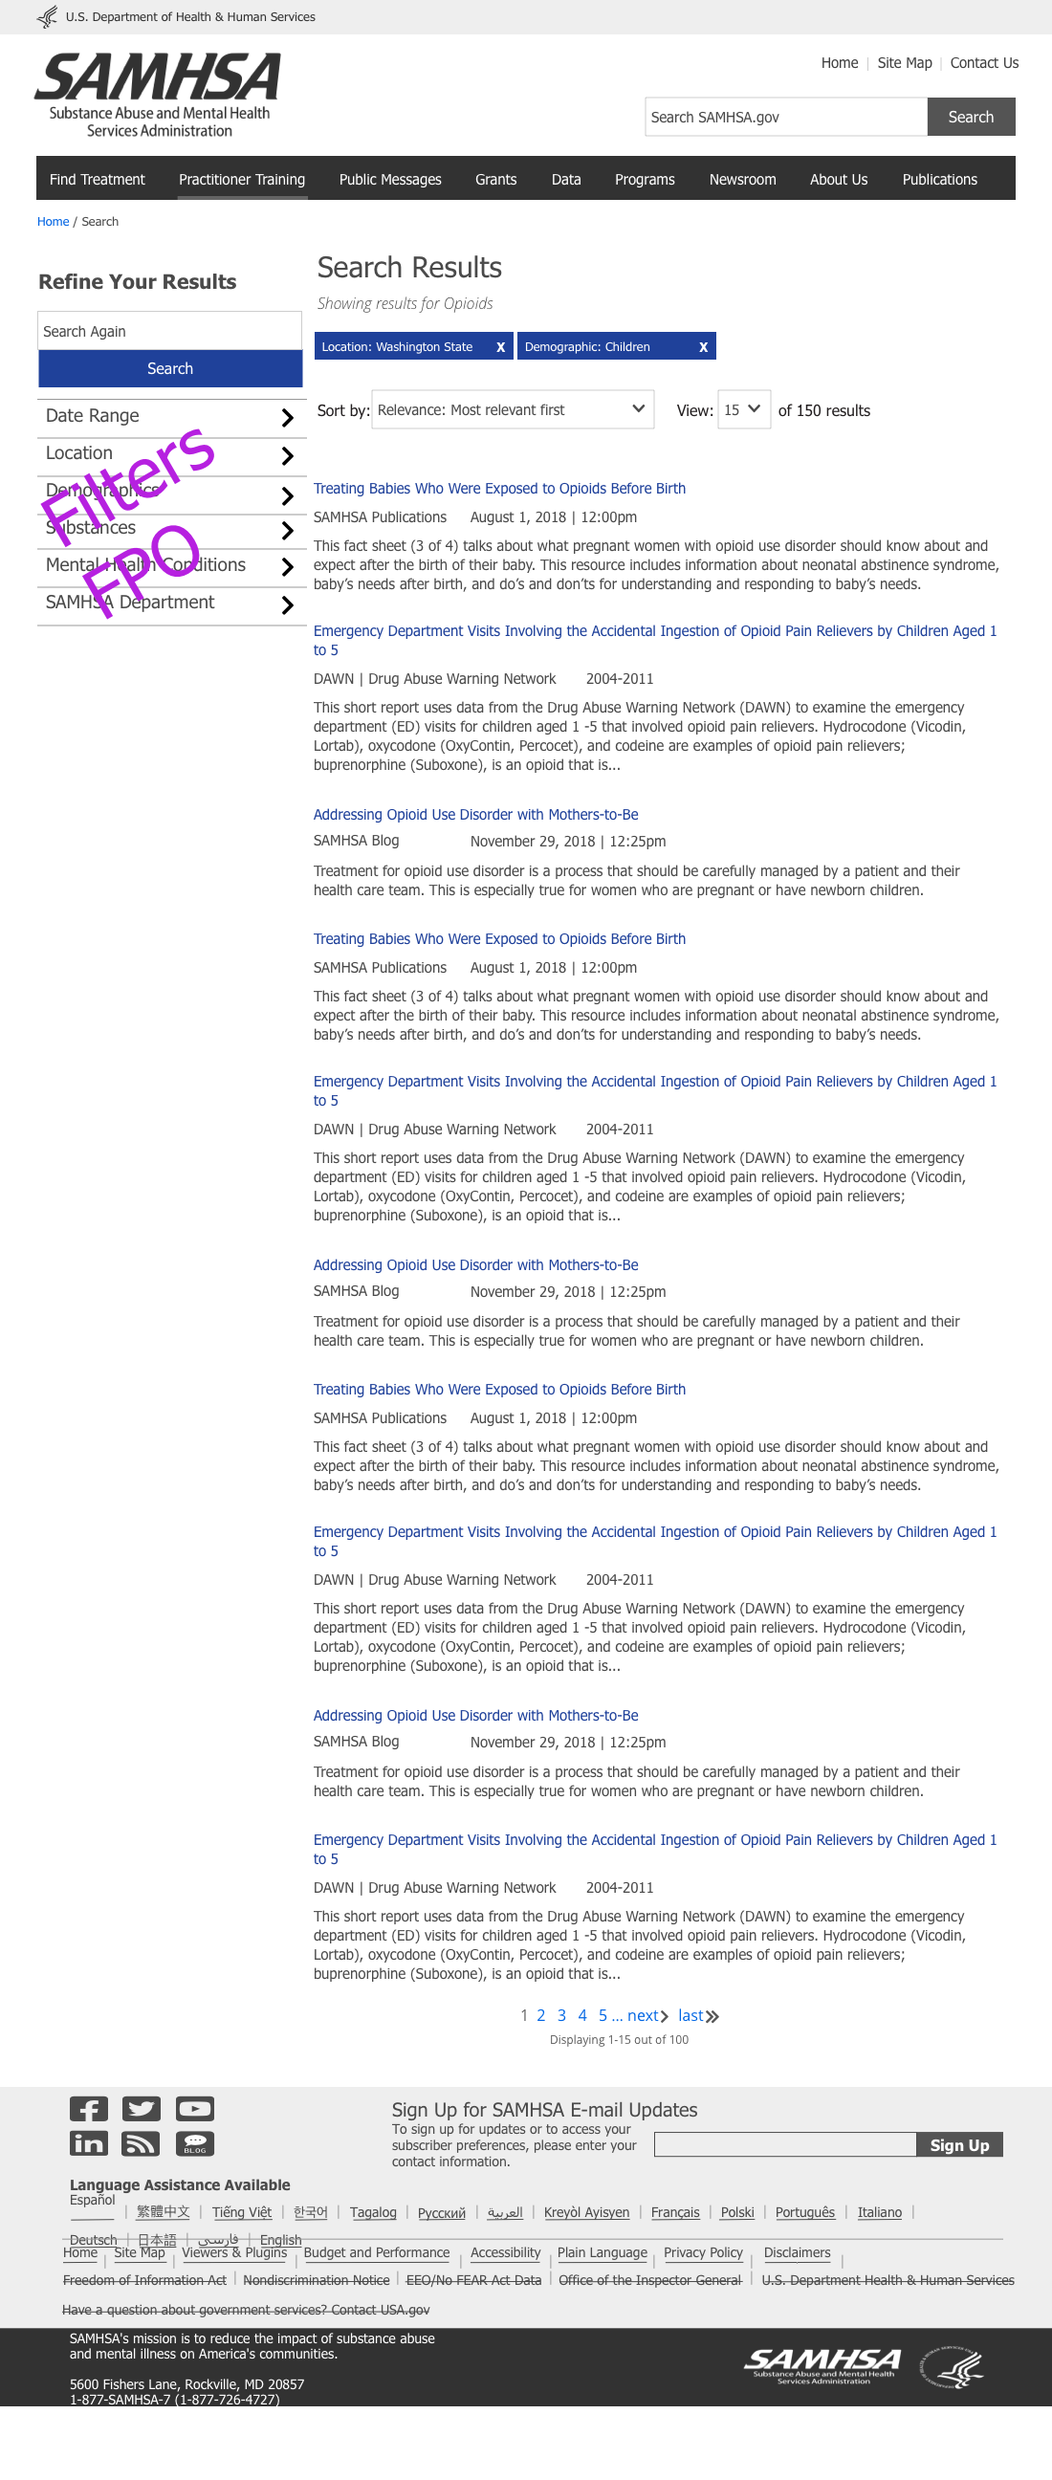
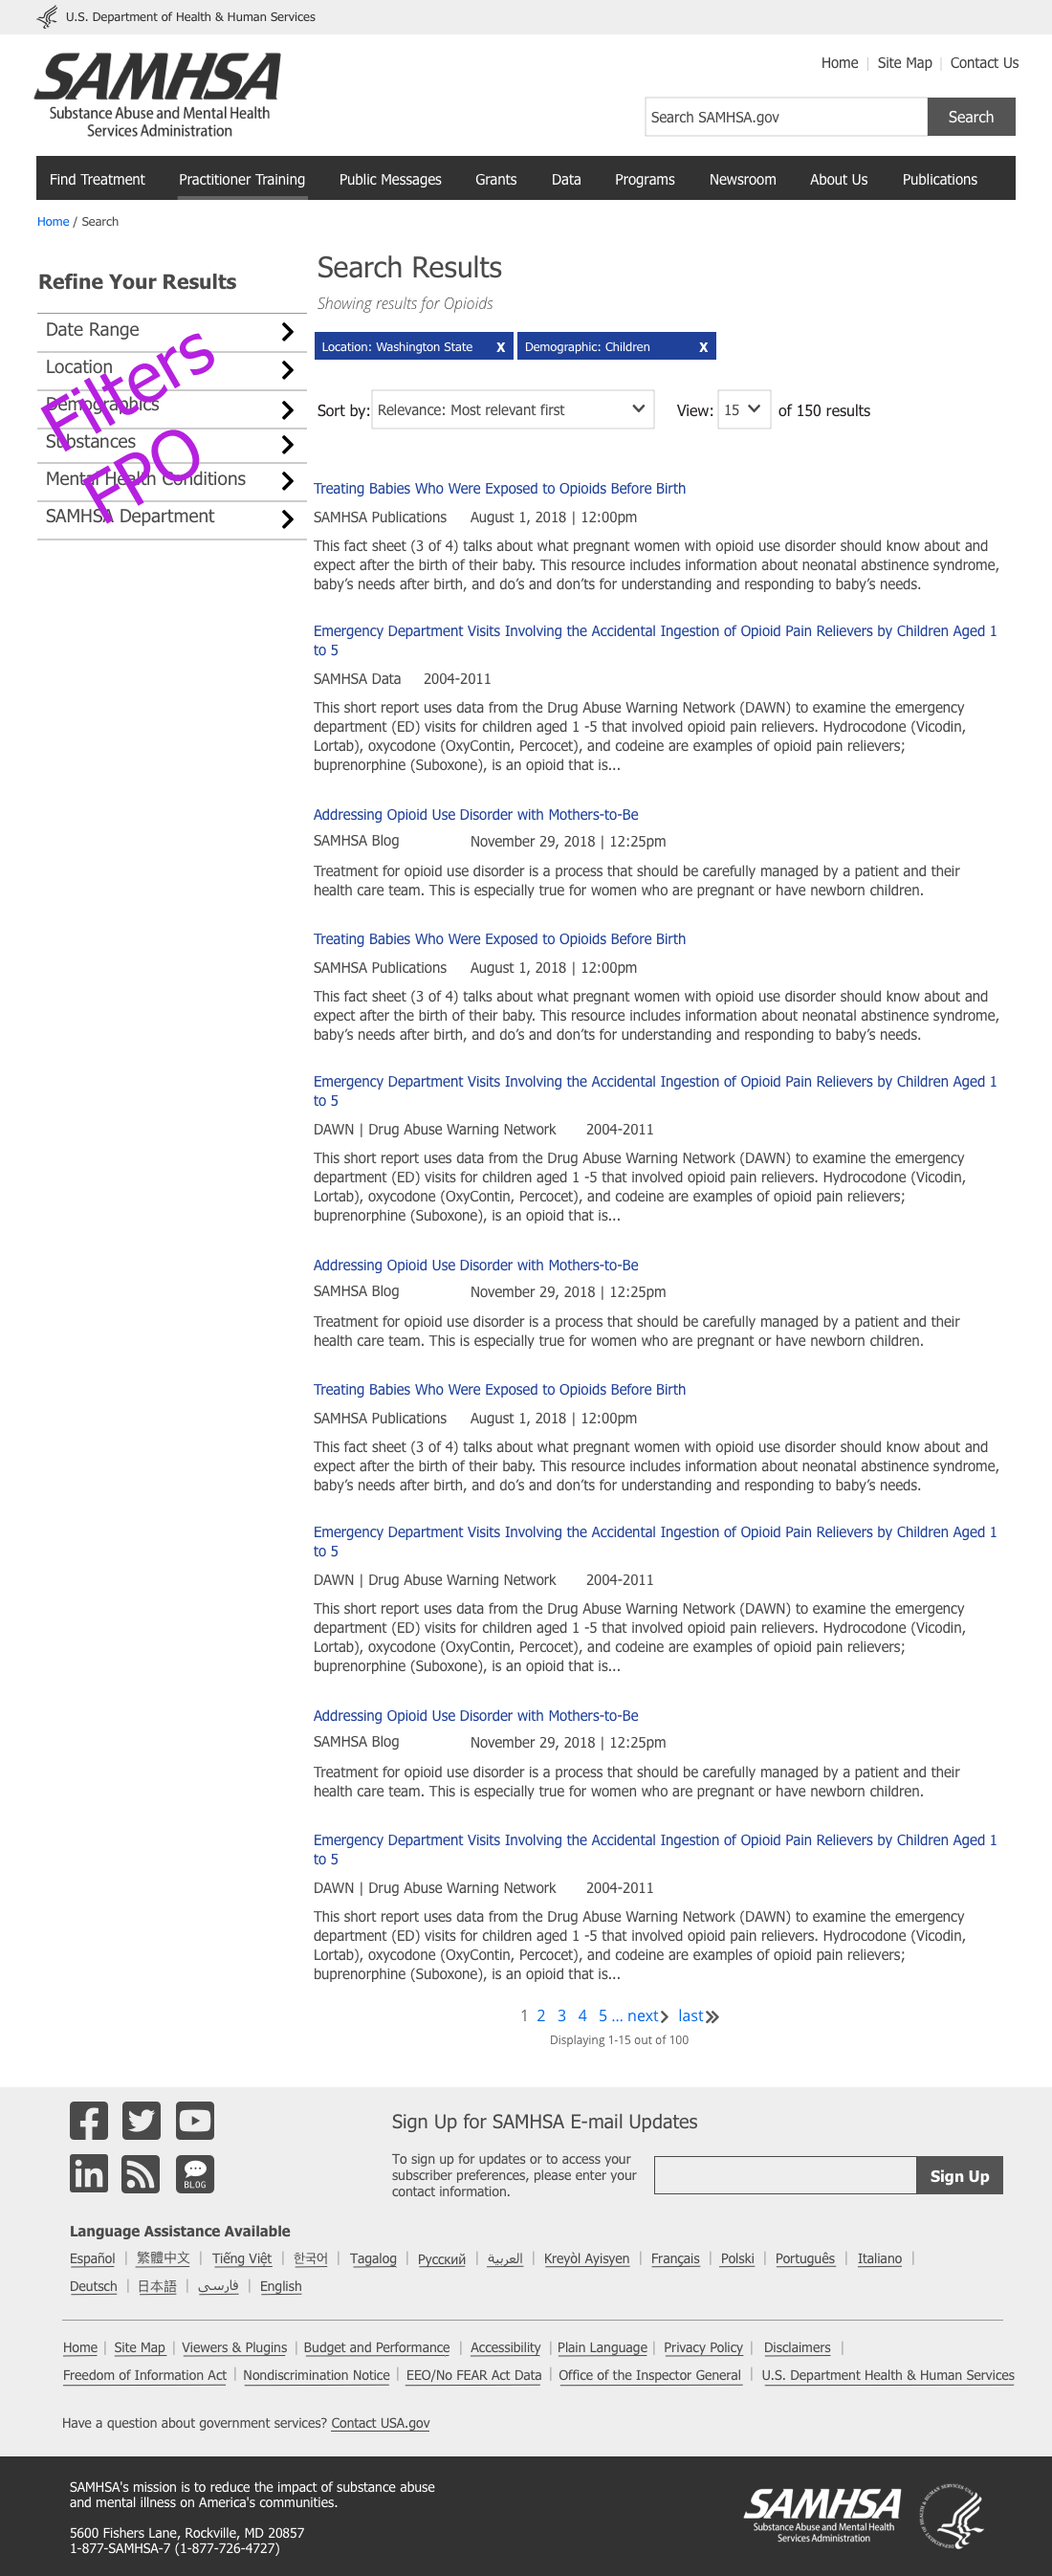
updating search requirements

Changed region(s): [[0.0, 0.0, 1.0, 1.0], [0.8655, 0.8122, 0.9582, 0.8747], [0.7418, 0.1562, 0.8345, 0.1874]]

diff --git a/docs/_includes/patterns/search/search-widget.md b/docs/_includes/patterns/search/search-widget.md
@@ -9,5 +9,9 @@ On medium and larger, the search button to to the right of the input field.
 **Functionality**
 OnClick/OnTap of button, the search results are shown using the content from the input field. (See OnPage load details)
 
-1- Input | Content -- on Default the text reads "Search SAMHSA.gov". However this text is updated according to the context, For instance on the Search Results page, the text reads "Search Again" while on the Resource Template, the text is related to the resource collection.
-2- Button | Content -- on Default the text reads "Search". However this text is updated according to the context.
+1- Input | Content -- on Default the text reads "Search SAMHSA.gov". However this text is updated according to the context, For instance on the Resource Template, the text is related to the resource collection.
+2- Type ahead | As the user begins to type their query, the system displays possible answers. The user can click an answer and the system will display the taget page
+3- Button | Content -- on Default the text reads "Search". However this text is updated according to the context.
+
+**Type-a-head Example**
+![search-controls](../assets/img/search/type-ahead-search.png)

diff --git a/docs/_includes/patterns/search/default-page-load.md b/docs/_includes/patterns/search/default-page-load.md
@@ -9,5 +9,8 @@ There are three types of incoming searches, canned, keyword, empty.
 ### Keyword -
 - Any search using the search widget, results are constrained to keyword matches.
 
+#### Typos and Misspellings
+- The system should have a list of common misspellings and would load results against the list.
+
 ### Canned -
 - A canned search is a link created anywhere in the site that contains search filiter criteria. When used, the filter set is contrained by any applied options (keywords and filters). Filters show as buttons in the applied filiters bar and are marked in the filters (however filter accordions stay closed). Keywords show in the search return text.
